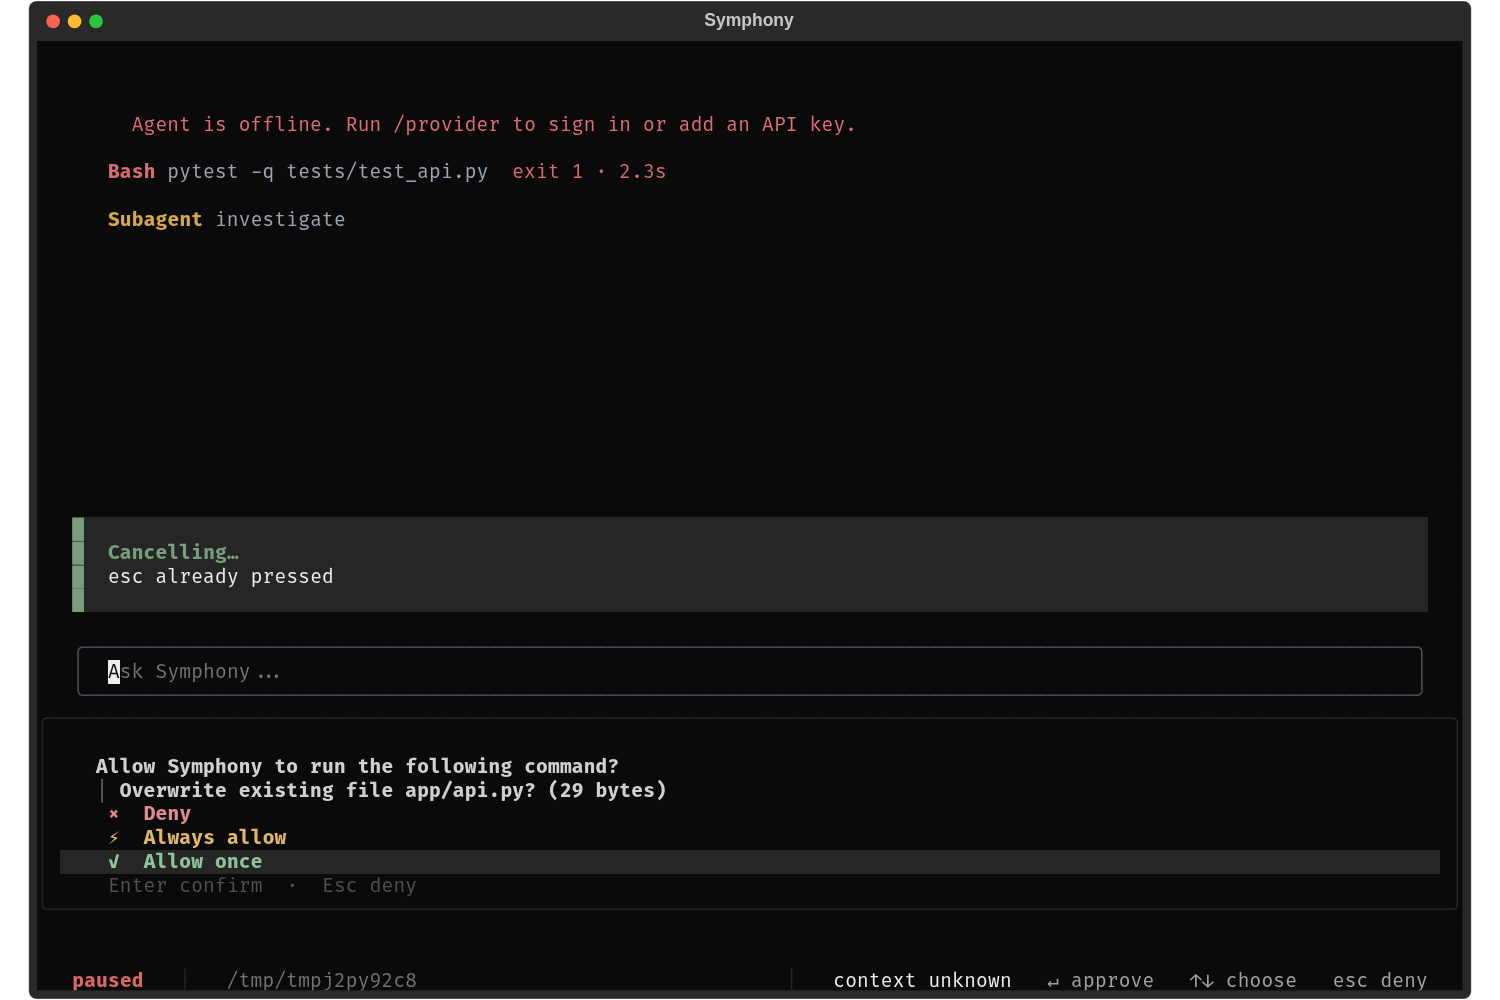
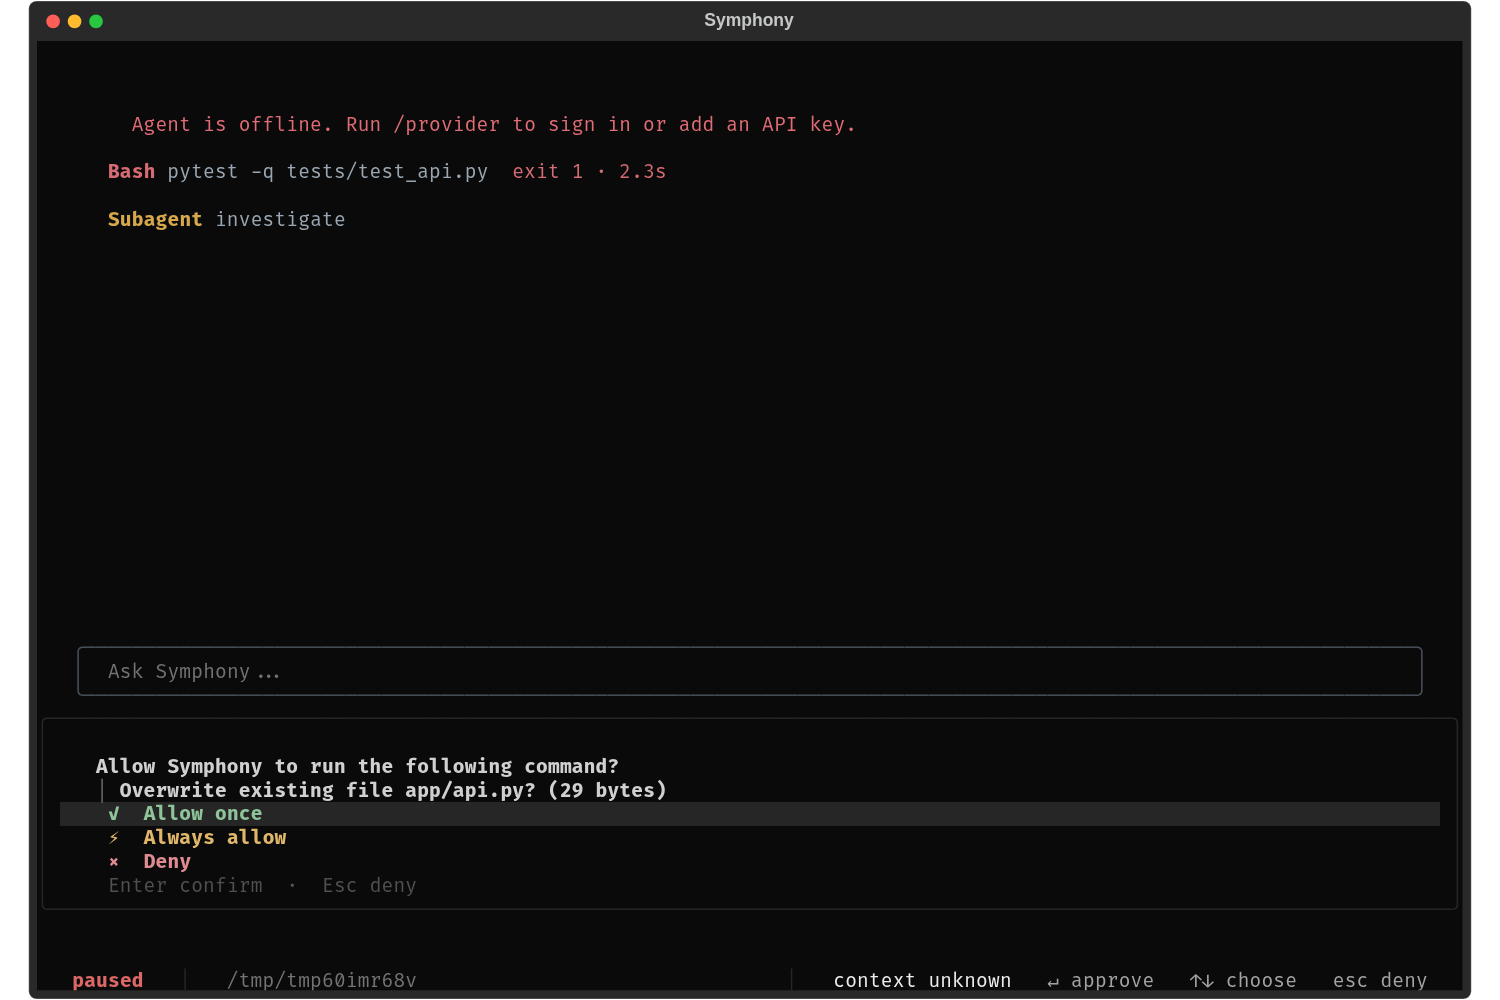
Approvals: drop options and extra ids; metadata adds only target, detail, bytes

diff --git a/coding_agent/tests/test_widget_fields.py b/coding_agent/tests/test_widget_fields.py
@@ -10,8 +10,7 @@ from typing import Any, Mapping
 import pytest
 from textual.app import App
 
-from coding_agent.addons.approvals import APPROVAL_OPTIONS, ApprovalAddon, approval_metadata
-from coding_agent.config import ApprovalConfig
+from coding_agent.addons.approvals import approval_metadata
 from coding_agent.protocols import stdio
 from coding_agent.protocols.fields import SUBAGENT_STEP, EventFields
 from coding_agent.protocols.stdio.transport import CAPABILITIES, PROTOCOL_VERSION, StdioSink
@@ -81,21 +80,14 @@ def test_summary_counts_per_tool() -> None:
 # approvals
 
 
-def test_approval_metadata_has_target_detail_bytes_options() -> None:
+def test_approval_metadata_has_target_detail_bytes() -> None:
     meta = approval_metadata("write_file", {"path": "a.txt", "content": "héllo"}, "Write a.txt?", "c1")
-    assert meta["call_id"] == "c1"
+    assert meta["tool_call_id"] == "c1"
+    assert set(meta) == {"tool_name", "tool_call_id", "target", "detail", "bytes"}
     assert meta["target"] == "a.txt"
     assert meta["detail"] == "Write a.txt?"
     assert meta["bytes"] == 6
-    assert [option["id"] for option in meta["options"]] == ["deny", "allow_always", "allow_once"]
     assert approval_metadata("bash", {"command": "ls"}, "Run?", "c2")["bytes"] is None
-
-
-@pytest.mark.parametrize(("answer", "allowed"), [("allow_once", True), ("deny", False), ("allow_always", True)])
-def test_approval_accepts_option_ids(tmp_path: Path, answer: str, allowed: bool) -> None:
-    addon = ApprovalAddon(tmp_path, None, approvals=ApprovalConfig())
-    assert addon.policy.interpret(addon.approvals, answer)[0] is allowed
-    assert {option["id"] for option in APPROVAL_OPTIONS} == {"deny", "allow_always", "allow_once"}
 
 
 # shared enricher
@@ -160,12 +152,12 @@ def test_stdio_frames_carry_widget_fields(monkeypatch: pytest.MonkeyPatch) -> No
     output = next(frame for frame in frames if frame.get("event") == "tool_execution_output")
     assert output["payload"]["stream"] == "stderr"
     [requested] = [frame for frame in frames if frame["type"] == "input_requested"]
-    assert requested["call_id"] == "b"
+    assert requested["metadata"]["tool_call_id"] == "b"
+    assert requested["choices"] == ["Allow once", "Always allow", "Deny"]
     assert requested["target"] == "ls"
     assert requested["detail"] == "Run ls?"
     assert requested["bytes"] is None
-    assert [option["id"] for option in requested["options"]] == ["deny", "allow_always", "allow_once"]
-    assert requested["metadata"]["call_id"] == "b"
+    assert "options" not in requested and "call_id" not in requested
 
 
 # TUI

diff --git a/coding_agent/src/coding_agent/addons/approvals.py b/coding_agent/src/coding_agent/addons/approvals.py
@@ -24,13 +24,6 @@ ALLOW_ONCE = "Allow once"
 ALLOW_ALWAYS = "Always allow"
 DENY = "Deny"
 APPROVAL_CHOICES = (ALLOW_ONCE, ALLOW_ALWAYS, DENY)
-# Stable ids for the same choices. A host may answer with the id or the label.
-APPROVAL_OPTIONS = (
-    {"id": "deny", "label": DENY},
-    {"id": "allow_always", "label": ALLOW_ALWAYS},
-    {"id": "allow_once", "label": ALLOW_ONCE},
-)
-_OPTION_LABELS = {option["id"]: option["label"].lower() for option in APPROVAL_OPTIONS}
 AUTO_DECISION = "auto_decision"
 RULE_SUBJECTS = {
     "bash": "command", "write_file": "path", "patch": "path", "generate_image": "path",
@@ -61,7 +54,7 @@ def matching_rule(
 
 
 def approval_metadata(tool_name: str, arguments: Dict[str, Any], question: str, call_id: str) -> Dict[str, Any]:
-    """What an approval card shows: the subject, the question, the size of the write, the choices."""
+    """What an approval card shows: the subject, the question and the size of the write."""
     field = RULE_SUBJECTS.get(tool_name)
     target = str(arguments.get(field) or "").strip() if field else ""
     written = arguments.get("content") if tool_name == "write_file" else (
@@ -70,11 +63,9 @@ def approval_metadata(tool_name: str, arguments: Dict[str, Any], question: str, 
     return {
         "tool_name": tool_name,
         "tool_call_id": call_id,
-        "call_id": call_id,
         "target": target,
         "detail": question,
         "bytes": len(written.encode("utf-8")) if isinstance(written, str) else None,
-        "options": [dict(option) for option in APPROVAL_OPTIONS],
     }
 
 
@@ -125,7 +116,6 @@ class ApprovalPolicy:
         if config.mode == "always_allow":
             return True, False
         normalized = answer.strip().lower()
-        normalized = _OPTION_LABELS.get(normalized, normalized)
         if normalized == ALLOW_ALWAYS.lower():
             return True, True
         return normalized in config.allow_answers, False
@@ -243,7 +233,6 @@ __all__ = [
     "ALLOW_ALWAYS",
     "ALLOW_ONCE",
     "APPROVAL_CHOICES",
-    "APPROVAL_OPTIONS",
     "AUTO_DECISION",
     "ApprovalAddon",
     "ApprovalPolicy",

diff --git a/coding_agent/src/coding_agent/protocols/stdio/transport.py b/coding_agent/src/coding_agent/protocols/stdio/transport.py
@@ -25,7 +25,7 @@ CAPABILITIES = [
     "runs", "resume", "interrupt", "input", "steer", "models", "images", "subagents", "commands", "widget_fields",
 ]
 # Approval fields lifted from the question's metadata onto input_requested.
-APPROVAL_FIELDS = ("call_id", "target", "detail", "bytes", "options", "parent_call_id")
+APPROVAL_FIELDS = ("target", "detail", "bytes")
 
 
 def write_frame(frame: Mapping[str, Any]) -> None:
@@ -58,8 +58,7 @@ class StdioSink(EventSink):
     A question is the ``question_asked`` event like in every other host.
     Protocol 2 hosts read ``input_requested``, so that frame follows it.
     Protocol 3 adds the widget fields from :class:`EventFields`, and an
-    approval's ``call_id``, ``target``, ``detail``, ``bytes`` and ``options``
-    on ``input_requested`` itself.
+    approval's ``target``, ``detail`` and ``bytes`` on ``input_requested`` itself.
     """
 
     def __init__(self) -> None:

diff --git a/coding_agent/src/coding_agent/protocols/fields.py b/coding_agent/src/coding_agent/protocols/fields.py
@@ -7,7 +7,6 @@ fields derived from data Symphony already owns, keeping every existing key:
 - ``tool_execution_started``: ``call_id``, ``parent_call_id``
 - ``tool_execution_output``: ``call_id``, ``stream``, ``parent_call_id``
 - ``tool_execution_completed``: ``call_id``, ``exit_code``, ``summary``, ``parent_call_id``
-- ``question_asked``: ``parent_call_id``
 - ``agent_spawned``: ``parent_call_id`` (the spawning call)
 - a child's ``turn_started`` is followed by one ``subagent_step`` event
 
@@ -91,7 +90,7 @@ class EventFields:
                 "started_at": payload.get("started_at", payload.get("ts")),
             }
             derived.append((SUBAGENT_STEP, step))
-        elif event_type != "question_asked":
+        else:
             return [(event_type, out), *derived]
         out["parent_call_id"] = parent_call_id
         return [(event_type, out), *derived]

diff --git a/coding_agent/src/coding_agent/tui/screens/ask.py b/coding_agent/src/coding_agent/tui/screens/ask.py
@@ -19,11 +19,6 @@ class QuestionSurface:
         choices = [str(choice) for choice in payload.get("choices") or []]
         default = str(payload.get("default") or "")
         kind = str(payload.get("kind") or "")
-        options = payload.get("options")
-        if kind == "approval" and isinstance(options, list):
-            # Protocol 3: the approval's own options; old sessions keep choices.
-            labels = [str(option.get("label")) for option in options if isinstance(option, Mapping) and option.get("label")]
-            choices = labels or choices
         size = payload.get("bytes")
         if kind == "approval" and isinstance(size, int):
             question = f"{question} ({size:,} bytes)"

diff --git a/coding_agent/tests/test_tui.py b/coding_agent/tests/test_tui.py
@@ -2874,10 +2874,9 @@ def test_approval_enter_submits_highlighted_always_allow(
                 raise AssertionError("approval menu did not appear")
 
             menu = app.query_one("#approval-menu", SlashMenu)
-            # Protocol 3 options order: deny, allow_always, allow_once.
-            assert menu._questions == ("Deny", "Always allow", "Allow once")
+            assert menu._questions == ("Allow once", "Always allow", "Deny")
             assert menu.selected_value == "Allow once"
-            menu.move_selection(-1)
+            menu.move_selection(1)
             assert menu.selected_value == "Always allow"
 
             request_id = app._pending_question_id

diff --git a/coding_agent/src/coding_agent/protocols/stdio/README.md b/coding_agent/src/coding_agent/protocols/stdio/README.md
@@ -49,8 +49,8 @@ and `null` for top-level events.
 | `tool_execution_started` | `call_id`, `parent_call_id` (`started_at` was already present) |
 | `tool_execution_output` | `call_id`, `stream` (`"stdout"` or `"stderr"`), `parent_call_id` |
 | `tool_execution_completed` | `call_id`, `exit_code`, `summary`, `parent_call_id` (`status` and `duration_ms` were already present) |
-| `question_asked` | `parent_call_id`; approvals also carry `call_id`, `target`, `detail`, `bytes`, `options` |
-| `input_requested` (approval) | top-level `call_id`, `target`, `detail`, `bytes`, `options`, `parent_call_id` (also kept in `metadata`) |
+| `question_asked` (approval) | `target`, `detail`, `bytes` (`tool_call_id`, `choices`, `default` were already present) |
+| `input_requested` (approval) | top-level `target`, `detail`, `bytes` (also kept in `metadata`) |
 | `agent_spawned` | `parent_call_id` (same value as `tool_call_id`) |
 | `subagent_step` (new, derived) | `agent_id`, `parent_id`, `parent_call_id`, `turn`, `started_at`; follows each subagent `turn_started` |
 
@@ -61,10 +61,7 @@ and `null` for top-level events.
   `null`: `lines` for bash and read_file, `matches` for search, `lines` and
   `added` for write_file, `added` and `removed` for patch. Failed non-bash
   calls report all `null`.
-- `options` is `[{"id": "deny", "label": "Deny"}, {"id": "allow_always",
-  "label": "Always allow"}, {"id": "allow_once", "label": "Allow once"}]`.
-  Answer with the existing `input` frame using either the `id` or the
-  `label`.
+- Answer an approval with the existing `input` frame using one of `choices`.
 - `bytes` is the UTF-8 size of a write_file `content` or patch `new_str`, else `null`.
 - Derived fields are added on delivery and are not persisted; resumed
   sessions replay protocol 2 payloads, and clients should fall back to deriving

diff --git a/CHANGELOG.md b/CHANGELOG.md
@@ -4,7 +4,7 @@
 
 - Stdio protocol 3 (`widget_fields` capability): tool events carry `call_id`,
   `parent_call_id`, output `stream`, and completion `exit_code` and `summary`;
-  approvals carry `target`, `detail`, `bytes` and `options`; a derived
+  approvals carry `target`, `detail` and `bytes`; a derived
   `subagent_step` event follows each subagent turn. Bash reads stdout and
   stderr separately, and a non-zero exit is now a tool error. The TUI uses these
   fields and falls back to the old derivation for old sessions.
